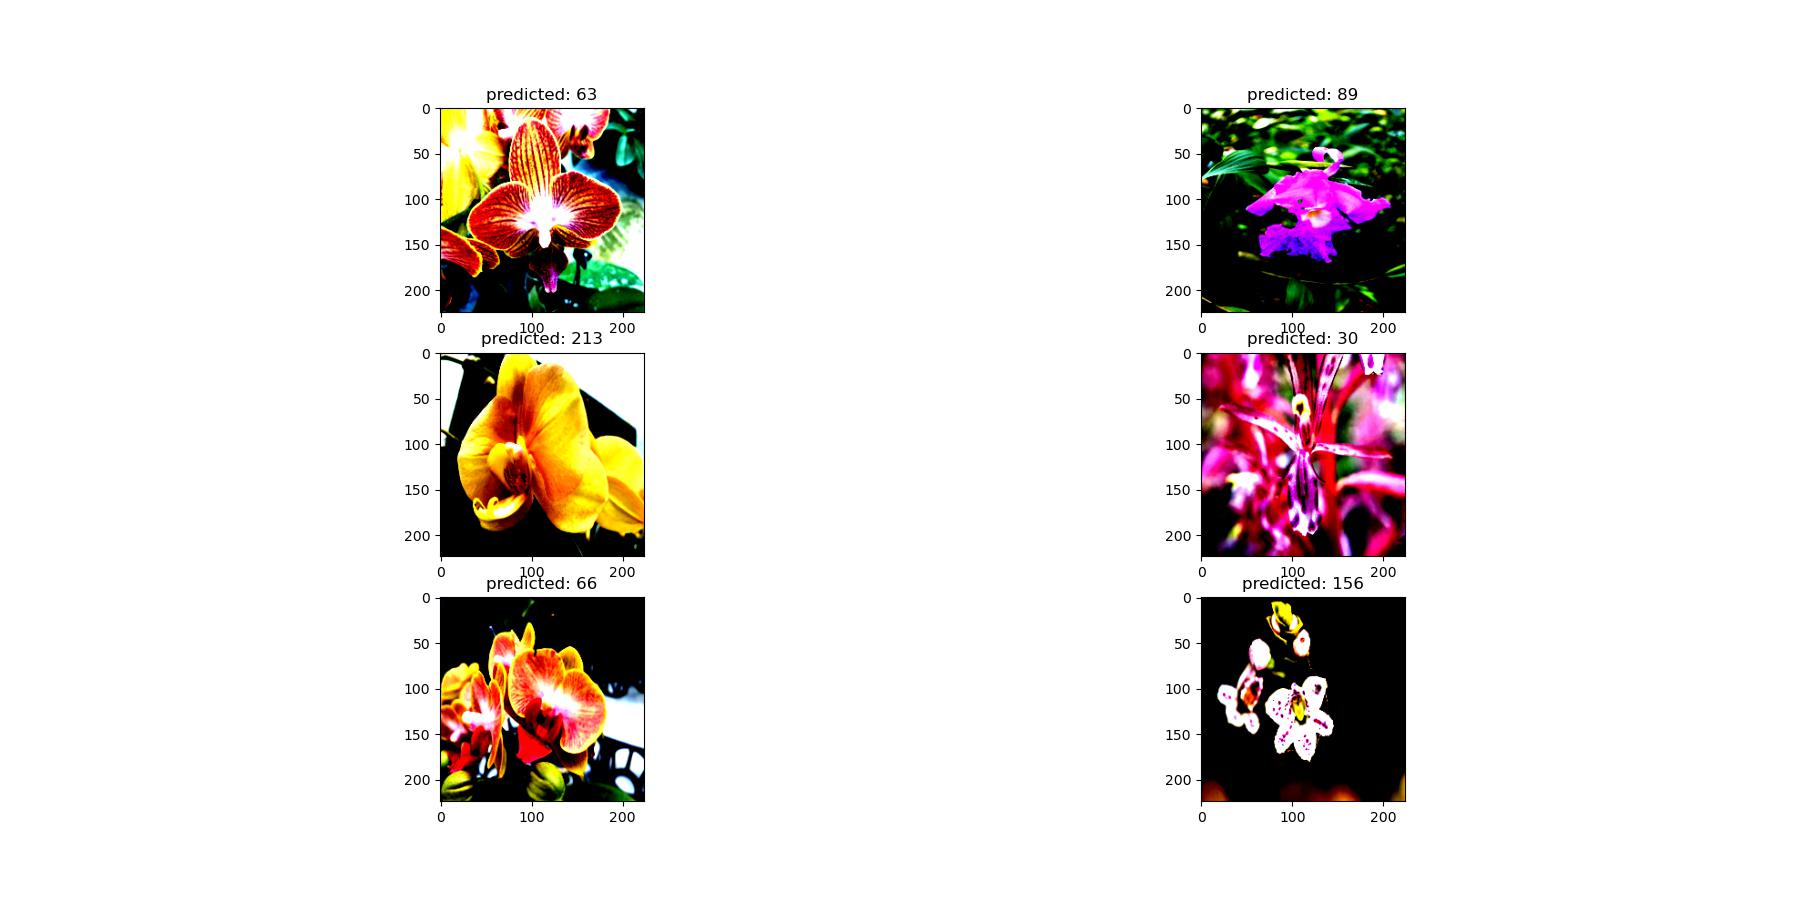
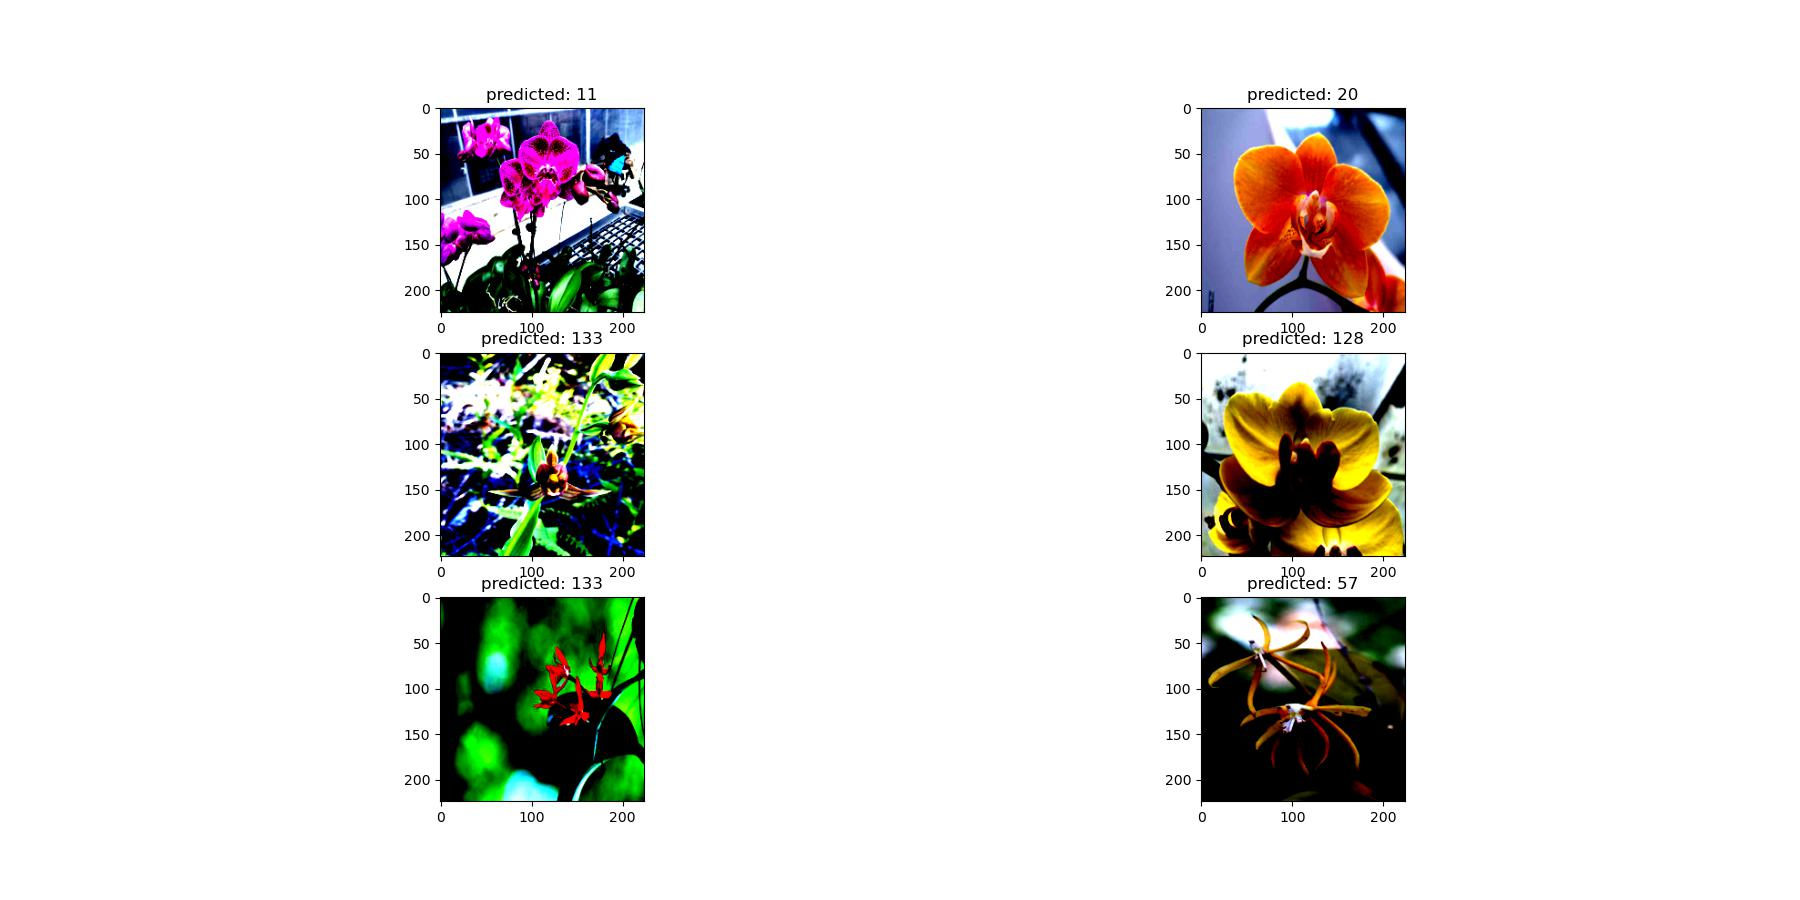
RandomChoice+水平翻轉+垂直翻轉+旋轉 中心剪裁

Changed region(s): [[0.2178, 0.0933, 0.3733, 0.9022], [0.6533, 0.0933, 0.8089, 0.9022], [0.6533, 0.8711, 0.6844, 0.9022]]

diff --git a/hw2.py b/hw2.py
@@ -59,9 +59,16 @@ data_transforms = {
             # ]),
             # # transforms.CenterCrop((480,480)),
             # transforms.CenterCrop((480,480)),
-            torchvision.transforms.RandomHorizontalFlip(p=0.5),
-            torchvision.transforms.RandomRotation(20),
-            transforms.Resize((224,224) ),
+            # torchvision.transforms.RandomHorizontalFlip(p=0.5),
+            # torchvision.transforms.RandomRotation(20),
+            # transforms.Resize((224,224) ),
+
+            transforms.RandomChoice([
+              transforms.RandomHorizontalFlip(p=0.5),
+              transforms.RandomVerticalFlip(p=0.5),
+              transforms.RandomRotation(180),
+            ]),
+            transforms.CenterCrop((480,480)),
 
             ########################################
             transforms.ToTensor(),
